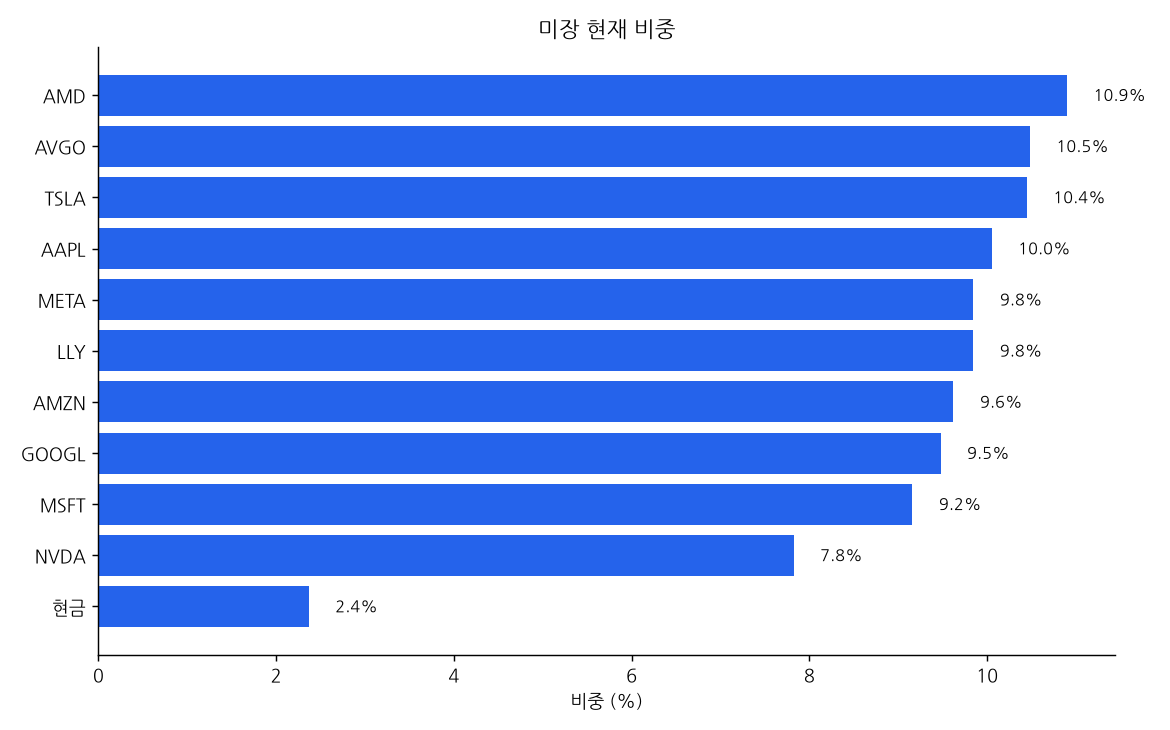
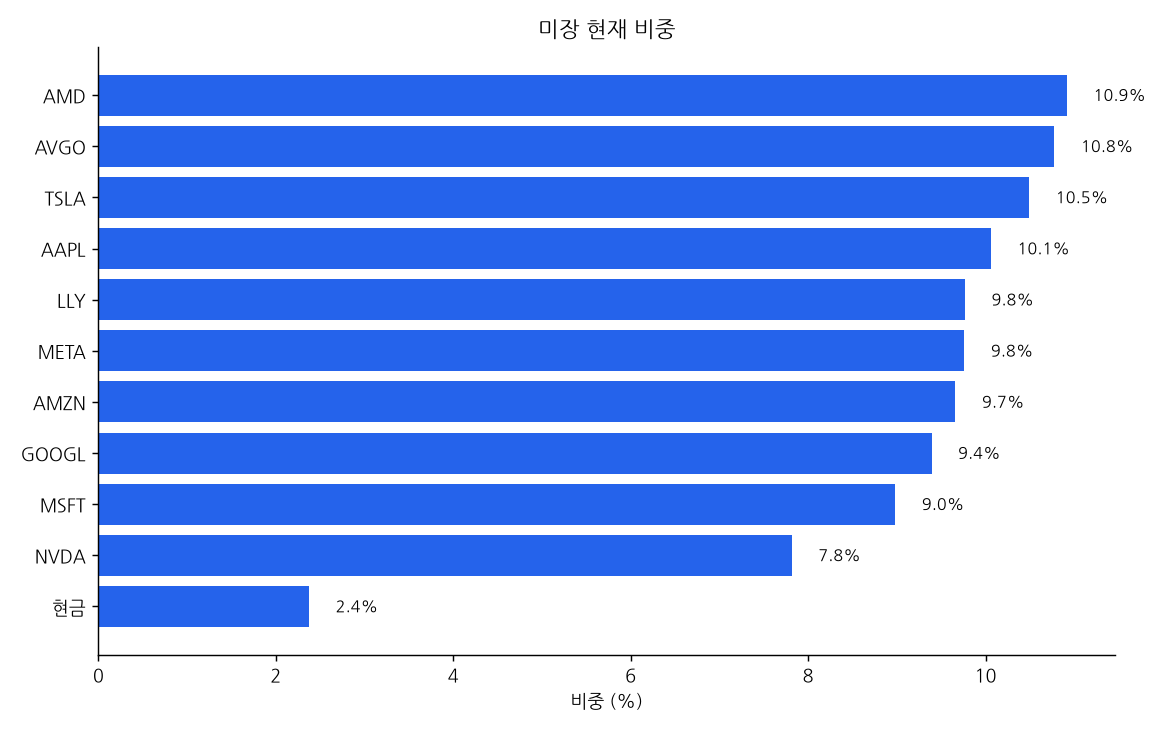
dashboard 2026-11-18 07:30

diff --git a/README.md b/README.md
@@ -1,10 +1,10 @@
 # 📈 내 자동매매 포트폴리오
 
-_마지막 갱신: 2026-11-17 16:00 (KST) · 라즈베리파이 자동 업데이트_
+_마지막 갱신: 2026-11-18 07:30 (KST) · 라즈베리파이 자동 업데이트_
 
 | 트랙 | 시작일 | 누적 수익률 | 비교 지수 | 초과 | 최근 1개월 | 국면 |
 |---|---|---|---|---|---|---|
-| 미장 | 2026-11-05 | **+2.36%** | +0.95% | +1.41% | - | BULL |
+| 미장 | 2026-11-05 | **+1.99%** | -0.08% | +2.07% | - | BULL |
 | 국장 | 2026-11-06 | **-0.57%** | -1.55% | +0.98% | - | BEAR |
 
 ## 미장
@@ -14,14 +14,14 @@ _마지막 갱신: 2026-11-17 16:00 (KST) · 라즈베리파이 자동 업데이
 | 종목 | 비중 |
 |---|---|
 | AMD | 10.9% |
-| AVGO | 10.5% |
-| TSLA | 10.4% |
-| AAPL | 10.0% |
-| META | 9.8% |
+| AVGO | 10.8% |
+| TSLA | 10.5% |
+| AAPL | 10.1% |
 | LLY | 9.8% |
-| AMZN | 9.6% |
-| GOOGL | 9.5% |
-| MSFT | 9.2% |
+| META | 9.8% |
+| AMZN | 9.7% |
+| GOOGL | 9.4% |
+| MSFT | 9.0% |
 | NVDA | 7.8% |
 | 현금 | 2.4% |
 
